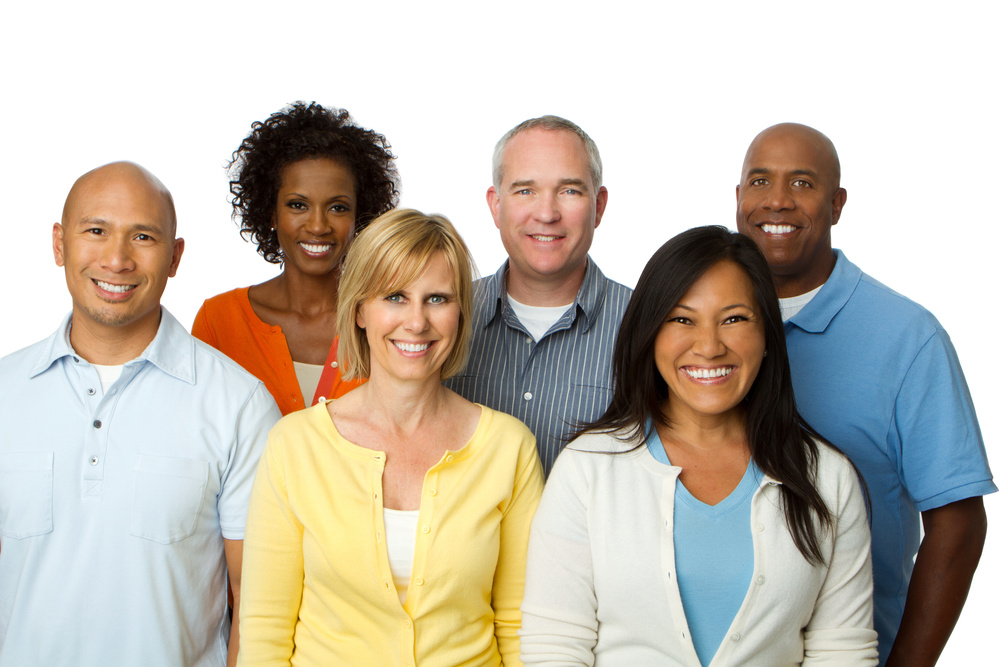
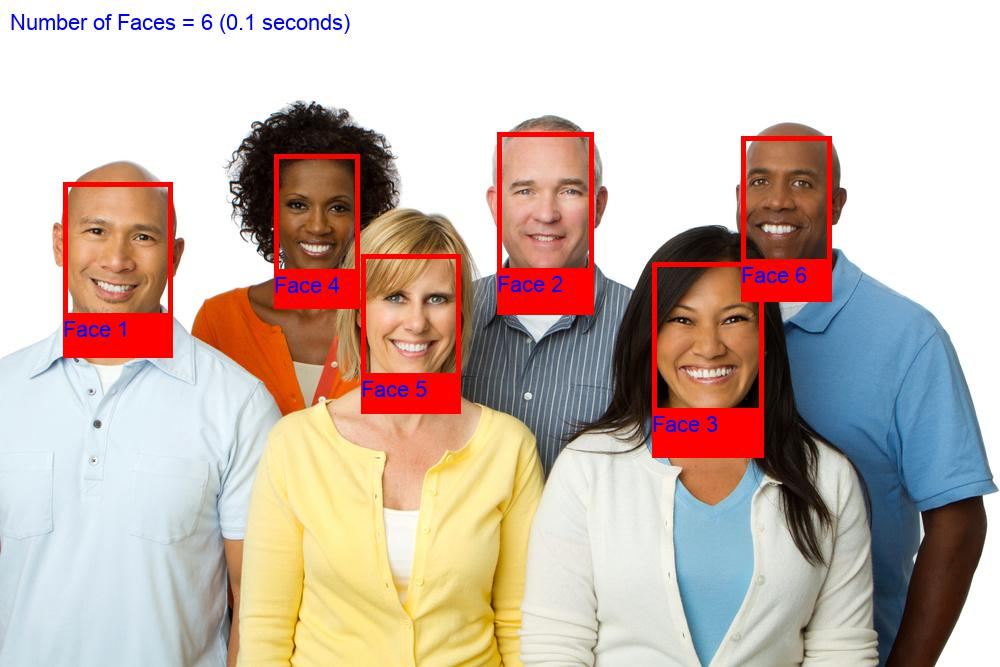
finished face_locations_onnx to iterate through files with report, show_images, save_images functionalities.

diff --git a/utilities/face_utilities.py b/utilities/face_utilities.py
@@ -63,7 +63,7 @@ def draw_face_locations(image, face_locations, report_values, lib='pil', show_im
     """
     # report values
     if report_values:
-        (number_of_faces, processing_time) = report_values
+        (image_path, number_of_faces, processing_time) = report_values
 
     if lib == 'pil' and (show_images or save_images):
         # Load the image into a Python Image Library object so that we can draw on top of it and display it
@@ -109,7 +109,7 @@ def draw_face_locations(image, face_locations, report_values, lib='pil', show_im
             cv2.waitKey(0)
             #cv2.destroyAllWindows()
         if save_images:
-            pass
+            pil_image.save(image_path)
 
     elif lib =='cv2' and (show_images or save_images):
         image = cv2.cvtColor(image, cv2.COLOR_BGR2RGB)
@@ -147,7 +147,7 @@ def draw_face_locations(image, face_locations, report_values, lib='pil', show_im
             cv2.waitKey(0)
             #cv2.destroyAllWindows()
         if save_images:
-            pass
+            cv2.imwrite(image_path, image)
     #else:
     #    print('The image was not annotated')
 
@@ -307,10 +307,10 @@ def face_locations_onnx(images_folder, lib='pil', report=True, show_images=True,
     threshold = 0.7
     total_processing_time = 0
 
-    result_path = images_folder+"_result"
+    images_folder_result = images_folder+"_result"
 
-    if not os.path.exists(result_path):
-        os.makedirs(result_path)
+    if not os.path.exists(images_folder_result):
+        os.makedirs(images_folder_result)
     listdir = os.listdir(images_folder)
 
     if report:
@@ -323,6 +323,7 @@ def face_locations_onnx(images_folder, lib='pil', report=True, show_images=True,
         start_time = time.time()
 
         image_path = os.path.join(images_folder, image_file)
+        result_image_path = os.path.join(images_folder_result, image_file)
         processed_image, image = onnx_image_path_preprocessing(image_path, lib='cv2')
         confidences, boxes = ort_session.run(None, {input_name: processed_image})
         face_locations, labels, probs = predict(image.shape[1], image.shape[0], confidences, boxes, threshold)
@@ -337,7 +338,7 @@ def face_locations_onnx(images_folder, lib='pil', report=True, show_images=True,
         if report:
             print("{:<20s}{:>20d}{:>20.2f}".format(image_file, number_of_faces, processing_time))
 
-        report_values = (number_of_faces, processing_time)
+        report_values = (result_image_path, number_of_faces, processing_time)
         face_locations = order_face_locations(face_locations)
         draw_face_locations(image, face_locations, report_values, lib, show_images, save_images, enumerate_faces=True)
 
